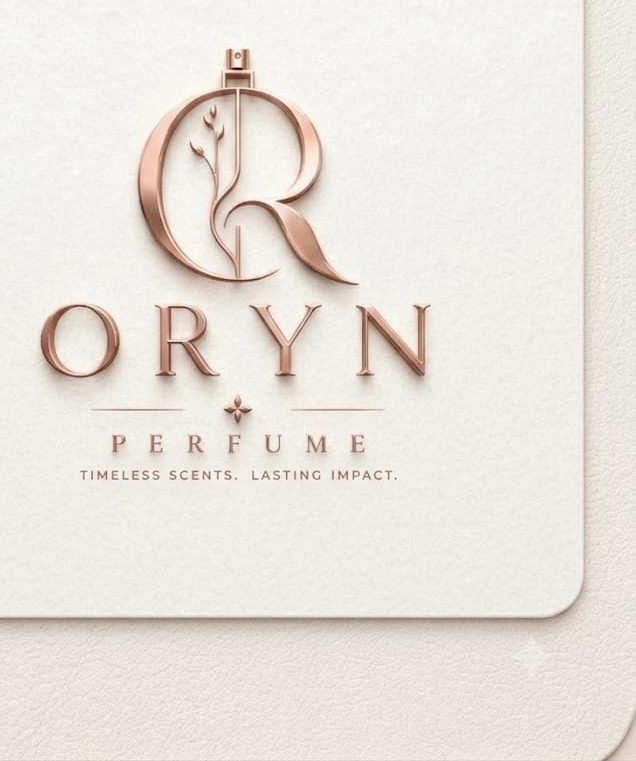
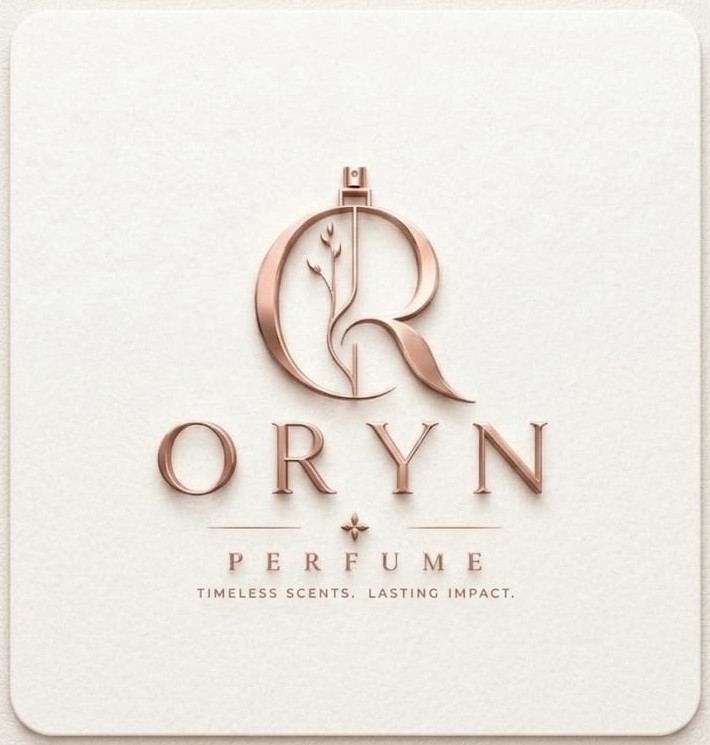
Tighten plaque crop to the card edges so the mark fills its frame
🤖 Generated with Codebuff

Changed region(s): [[0.0597, 0.0617, 0.7767, 0.7101], [0.0, 0.0, 0.956, 0.8644], [0.0, 0.0617, 1.0, 1.0]]

diff --git a/src/app/about/page.tsx b/src/app/about/page.tsx
@@ -85,7 +85,7 @@ export default function AboutPage() {
       {/* The mark — the rose-gold Oryn plaque, cropped to the mark itself */}
       <section className="mx-auto max-w-[1400px] px-6 md:px-10 pb-24 md:pb-32">
         <Reveal>
-          <div className="relative aspect-[5/6] md:aspect-[4/5] max-w-xl mx-auto overflow-hidden">
+          <div className="relative aspect-[20/21] max-w-xl mx-auto overflow-hidden">
             <Image
               src="/images/oryn-plaque.jpg"
               alt="The Oryn rose-gold mark"
